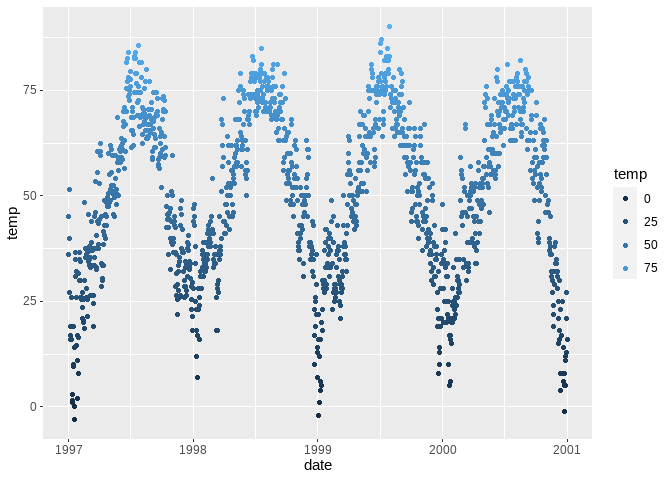
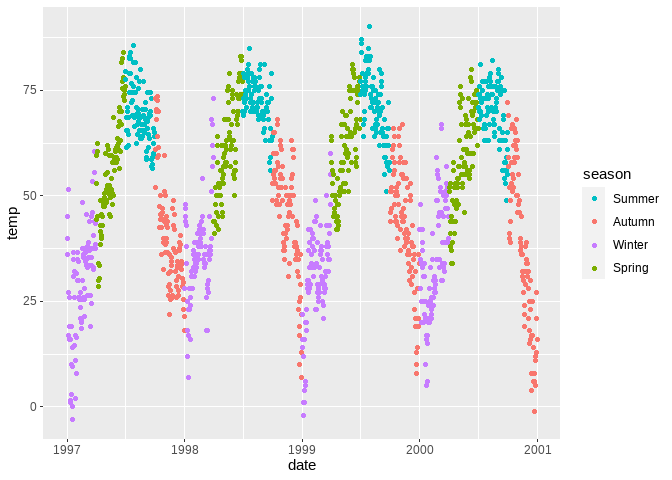
how to change legend order

diff --git a/R/ggplot2_from_Ced.md b/R/ggplot2_from_Ced.md
@@ -59,6 +59,8 @@ ggplot2 Notes
     -   <a href="#manually-adding-legends-and-using-different-color"
         id="toc-manually-adding-legends-and-using-different-color">Manually
         adding legends and using different color</a>
+    -   <a href="#changing-legend-order" id="toc-changing-legend-order">Changing
+        legend order</a>
     -   <a href="#forcing-to-use-different-guide-styles-for-legend"
         id="toc-forcing-to-use-different-guide-styles-for-legend">Forcing to use
         different guide styles for legend</a>
@@ -338,7 +340,7 @@ p <- ggplot(chic, aes(x = temp, y = temp + rnorm(nrow(chic), sd = 20))) +
 p
 ```
 
-    ## Warning: Removed 47 rows containing missing values (geom_point).
+    ## Warning: Removed 63 rows containing missing values (geom_point).
 
 ![](ggplot2_from_Ced_files/figure-gfm/unnamed-chunk-16-1.png)<!-- -->
 
@@ -358,7 +360,7 @@ axis. NBut we can make it same by using `coord_fixed()` which is uses
 p + coord_fixed()
 ```
 
-    ## Warning: Removed 54 rows containing missing values (geom_point).
+    ## Warning: Removed 50 rows containing missing values (geom_point).
 
 ![](ggplot2_from_Ced_files/figure-gfm/unnamed-chunk-17-1.png)<!-- -->
 
@@ -366,7 +368,7 @@ p + coord_fixed()
 p + coord_fixed(ratio = 1.5)
 ```
 
-    ## Warning: Removed 56 rows containing missing values (geom_point).
+    ## Warning: Removed 60 rows containing missing values (geom_point).
 
 ![](ggplot2_from_Ced_files/figure-gfm/unnamed-chunk-18-1.png)<!-- -->
 
@@ -374,7 +376,7 @@ p + coord_fixed(ratio = 1.5)
 p + coord_fixed(ratio = 1/4)
 ```
 
-    ## Warning: Removed 55 rows containing missing values (geom_point).
+    ## Warning: Removed 54 rows containing missing values (geom_point).
 
 ![](ggplot2_from_Ced_files/figure-gfm/unnamed-chunk-19-1.png)<!-- -->
 
@@ -698,7 +700,7 @@ We can do this by providing `labels` in the `scale_*` functions.
 p +
   scale_color_discrete(
     name = "Season",
-    labels = c("Mar-May", "Jun-Aug", "Sep-Nov", "Dec-Feb")
+    labels = c("Jun-Aug", "Mar-May", "Sep-Nov", "Dec-Feb")
   )
 ```
 
@@ -709,7 +711,10 @@ Again to get the integrated legends for `color` and `shape`,
 ``` r
 legend_spec <- list(
   name = "Season",
-  labels = c("Mar-May", "Jun-Aug", "Sep-Nov", "Dec-Feb")
+  labels = c("Spring" = "Mar-May", 
+             "Summer" = "Jun-Aug", 
+             "Autumn" = "Sep-Nov", 
+             "Winter" = "Dec-Feb")
 )
 
 p +
@@ -841,6 +846,120 @@ ggplot(chic, aes(date, o3)) +
 > **guide** =\> A function used to create a guide or its name. See
 > guides() for more information.
 
+### Changing legend order
+
+#### Option 1 (Easier)
+
+``` r
+ggplot(chic, aes(date, temp, color = season)) +
+  geom_point() +
+  scale_x_date(date_labels = "%b-%y")
+```
+
+![](ggplot2_from_Ced_files/figure-gfm/unnamed-chunk-42-1.png)<!-- --> To
+change the legend order in something like (Summer =\> Autumn =\> Winter
+=\> Spring), we can use `scale_color_discrete` (since we have used
+`color = season`)
+
+``` r
+ggplot(chic, aes(date, temp, color = season)) +
+  geom_point() +
+  scale_color_discrete(
+    breaks = c("Summer", "Autumn", "Winter", "Spring")
+  )
+```
+
+![](ggplot2_from_Ced_files/figure-gfm/unnamed-chunk-43-1.png)<!-- -->
+
+Or to align with the order of the plot, (Winter, Spring, Summer, Autumn)
+and also add custom legend key label,
+
+``` r
+ggplot(chic, aes(date, temp, color = season)) +
+  geom_point() +
+  scale_color_discrete(
+    breaks = c("Winter", "Spring", "Summer", "Autumn"),
+    labels = c("Spring" = "Mar-May", 
+             "Summer" = "Jun-Aug", 
+             "Autumn" = "Sep-Nov", 
+             "Winter" = "Dec-Feb")
+  )
+```
+
+![](ggplot2_from_Ced_files/figure-gfm/unnamed-chunk-44-1.png)<!-- -->
+
+or without the `=` mapping in `labels` (Here we have to make sure the
+order in both `breaks` and `labels` are aligned).
+
+``` r
+ggplot(chic, aes(date, temp, color = season)) +
+  geom_point() +
+  scale_color_discrete(
+    breaks = c("Winter", "Spring", "Summer", "Autumn"),
+    labels = c("Dec-Feb", "Mar-May", "Jun-Aug", "Sep-Nov")
+  )
+```
+
+![](ggplot2_from_Ced_files/figure-gfm/unnamed-chunk-45-1.png)<!-- -->
+
+But to add custom color, we need to use `scale_color_manual`,
+
+``` r
+ggplot(chic, aes(date, temp, color = season)) +
+  geom_point() +
+  scale_color_manual(
+    breaks = c("Winter", "Spring", "Summer", "Autumn"),
+    labels = c("Dec-Feb", "Mar-May", "Jun-Aug", "Sep-Nov"),
+    values = c("firebrick", "dodgerblue", "darkcyan", "orangered")
+  )
+```
+
+![](ggplot2_from_Ced_files/figure-gfm/unnamed-chunk-46-1.png)<!-- -->
+
+#### Option 2
+
+``` r
+library(dplyr, quietly = TRUE)
+```
+
+    ## 
+    ## Attaching package: 'dplyr'
+
+    ## The following objects are masked from 'package:stats':
+    ## 
+    ##     filter, lag
+
+    ## The following objects are masked from 'package:base':
+    ## 
+    ##     intersect, setdiff, setequal, union
+
+``` r
+p <- chic %>% 
+  mutate(
+    season = forcats::fct_relevel(factor(season), c("Winter", "Spring", "Summer", "Autumn"))
+  ) %>% 
+  ggplot(aes(date, temp, color = season)) +
+  geom_point()
+  
+p
+```
+
+![](ggplot2_from_Ced_files/figure-gfm/unnamed-chunk-47-1.png)<!-- -->
+
+Note that, color encoding got changed here. To add custom color, legend
+key labels in this case,
+
+``` r
+p +
+  scale_color_manual(
+    labels = c("Dec-Feb", "Mar-May", "Jun-Aug", "Sep-Nov"),
+    values = c("dodgerblue", "orangered", "darkcyan", "firebrick")
+  ) +
+  scale_x_date(date_labels = "%b-%y")
+```
+
+![](ggplot2_from_Ced_files/figure-gfm/unnamed-chunk-48-1.png)<!-- -->
+
 ### Forcing to use different guide styles for legend
 
 -   `guide_legend` is used for categorical variable
@@ -853,7 +972,7 @@ p <- ggplot(chic, aes(date, temp, color = temp)) +
 p
 ```
 
-![](ggplot2_from_Ced_files/figure-gfm/unnamed-chunk-42-1.png)<!-- -->
+![](ggplot2_from_Ced_files/figure-gfm/unnamed-chunk-49-1.png)<!-- -->
 
 But we can also force to use the different guides other than the default
 ones.
@@ -862,19 +981,19 @@ ones.
 p + guides(color = guide_legend())
 ```
 
-![](ggplot2_from_Ced_files/figure-gfm/unnamed-chunk-43-1.png)<!-- -->
+![](ggplot2_from_Ced_files/figure-gfm/unnamed-chunk-50-1.png)<!-- -->
 
 ``` r
 p + guides(color = guide_bins())
 ```
 
-![](ggplot2_from_Ced_files/figure-gfm/unnamed-chunk-44-1.png)<!-- -->
+![](ggplot2_from_Ced_files/figure-gfm/unnamed-chunk-51-1.png)<!-- -->
 
 ``` r
 p + guides(color = guide_colorsteps())
 ```
 
-![](ggplot2_from_Ced_files/figure-gfm/unnamed-chunk-45-1.png)<!-- -->
+![](ggplot2_from_Ced_files/figure-gfm/unnamed-chunk-52-1.png)<!-- -->
 
 ## Working with background
 
@@ -896,7 +1015,7 @@ ggplot(chic, aes(x = date, y = temp)) +
   )
 ```
 
-![](ggplot2_from_Ced_files/figure-gfm/unnamed-chunk-46-1.png)<!-- --> We
+![](ggplot2_from_Ced_files/figure-gfm/unnamed-chunk-53-1.png)<!-- --> We
 can see that, the outlines of the panel did not changed, it remained as
 is. Because there’s an another layer on top of `panel.background`, which
 is `panel.border`.
@@ -912,7 +1031,7 @@ ggplot(chic, aes(x = date, y = temp)) +
   )
 ```
 
-![](ggplot2_from_Ced_files/figure-gfm/unnamed-chunk-47-1.png)<!-- -->
+![](ggplot2_from_Ced_files/figure-gfm/unnamed-chunk-54-1.png)<!-- -->
 
 Now its clear that `panel.border` is on top of the whole **panel**,
 since its obscuring the points, grid-lines.
@@ -933,7 +1052,7 @@ ggplot(chic, aes(x = date, y = temp)) +
   )
 ```
 
-![](ggplot2_from_Ced_files/figure-gfm/unnamed-chunk-48-1.png)<!-- -->
+![](ggplot2_from_Ced_files/figure-gfm/unnamed-chunk-55-1.png)<!-- -->
 
 ### Changing `minor_breaks` of the plot
 
@@ -946,7 +1065,7 @@ ggplot(chic, aes(x = date, y = temp)) +
   )
 ```
 
-![](ggplot2_from_Ced_files/figure-gfm/unnamed-chunk-49-1.png)<!-- -->
+![](ggplot2_from_Ced_files/figure-gfm/unnamed-chunk-56-1.png)<!-- -->
 
 ### Same background color for whole plot
 
